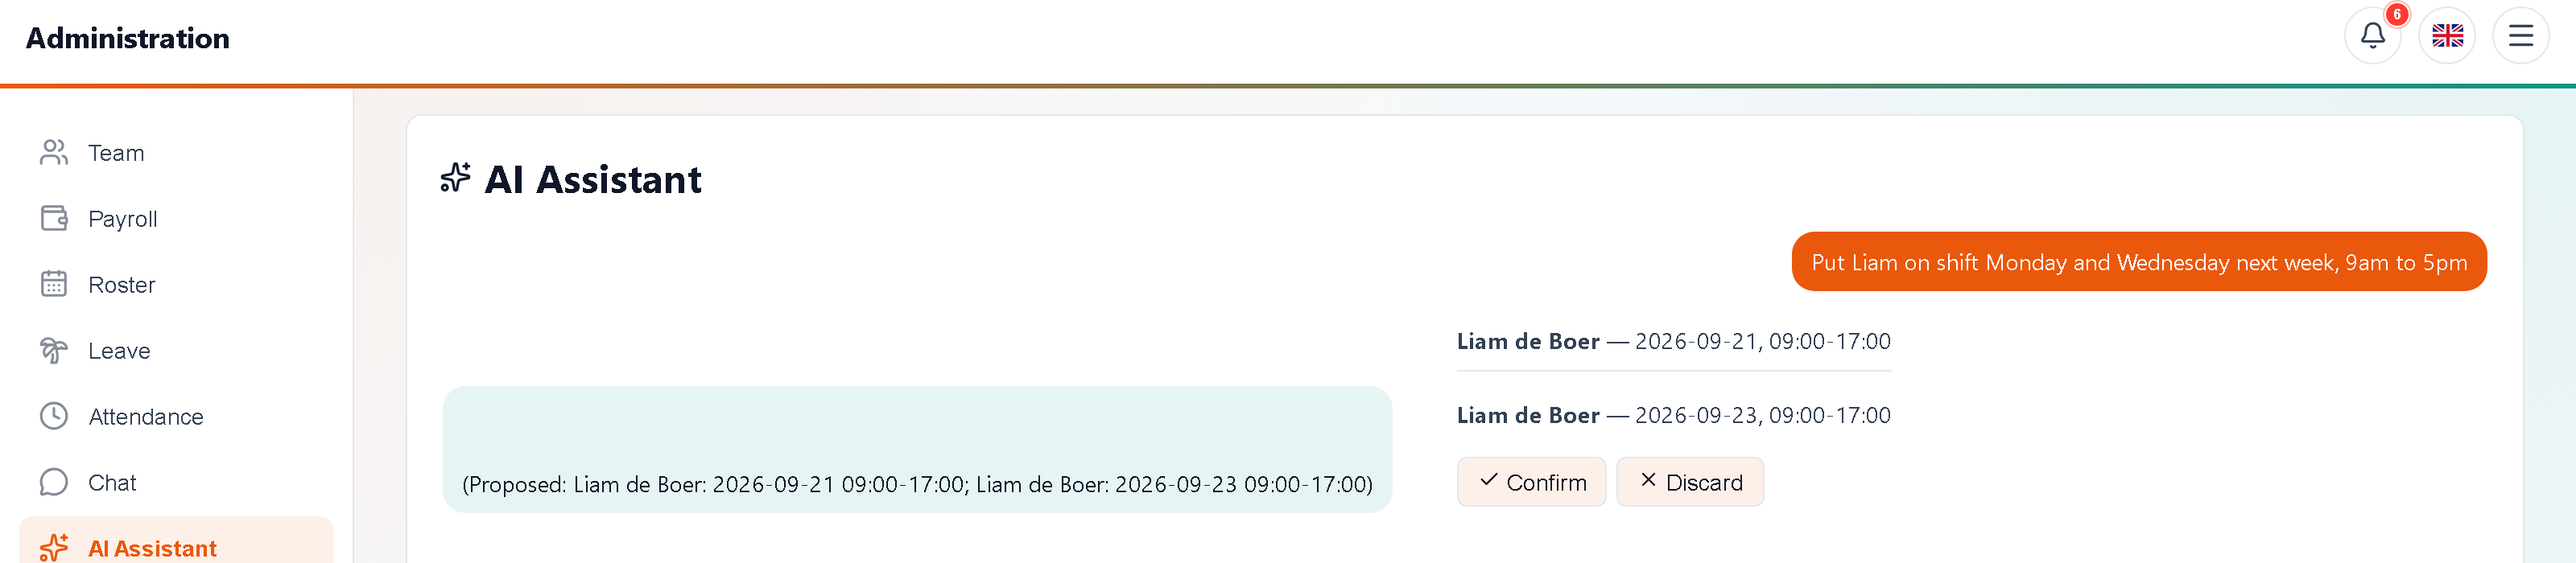
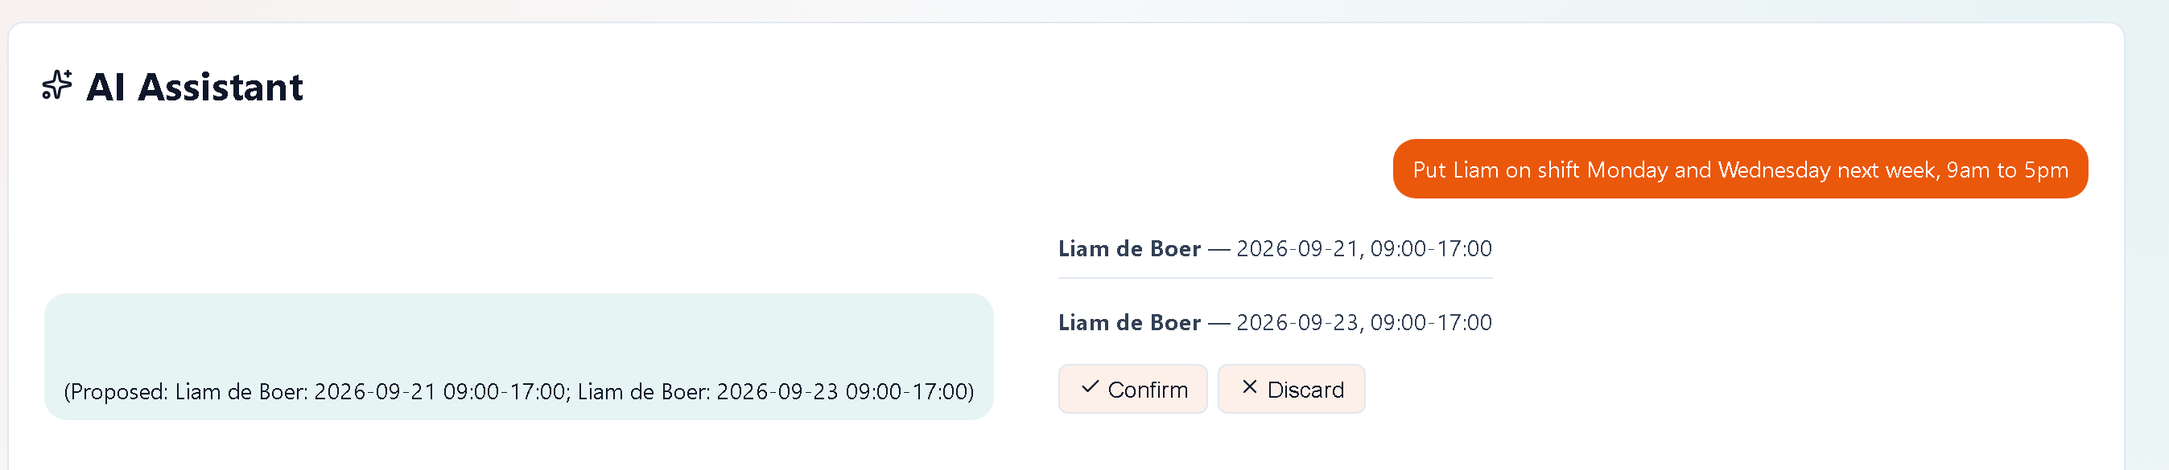
Crop sidebar/header chrome from screenshots, add rise-in animation
Re-crops all 5 feature screenshots to show just the panel content
(no admin sidebar or top nav bar), matching a cleaner, more focused
look. Also gives the screenshot frame its own staggered entrance --
it rises and scales in shortly after the heading/copy above it
settles, instead of just fading in at the same time.

diff --git a/src/App.css b/src/App.css
@@ -993,6 +993,18 @@
   justify-content: center;
   box-shadow: 0 16px 40px -24px rgba(15, 23, 42, 0.2);
   overflow: hidden;
+  /* Rises and scales in shortly after the copy above it fades in --
+     layered on top of the parent .reveal's own opacity/blur transition
+     for a two-step "text settles, then the screenshot arrives" motion. */
+  opacity: 0;
+  transform: translateY(36px) scale(0.96);
+  transition: transform 0.7s cubic-bezier(0.16, 1, 0.3, 1) 0.18s, opacity 0.7s ease 0.18s,
+    box-shadow 0.3s ease;
+}
+
+.reveal-visible .showcase-visual-frame {
+  opacity: 1;
+  transform: translateY(0) scale(1);
 }
 
 .showcase-screenshot {
@@ -1005,8 +1017,12 @@
   transition: transform 0.35s cubic-bezier(0.16, 1, 0.3, 1);
 }
 
+.showcase-row:hover .showcase-visual-frame {
+  box-shadow: 0 22px 48px -22px rgba(15, 23, 42, 0.28);
+}
+
 .showcase-row:hover .showcase-screenshot {
-  transform: scale(1.01);
+  transform: scale(1.012);
 }
 
 .showcase-tag {
